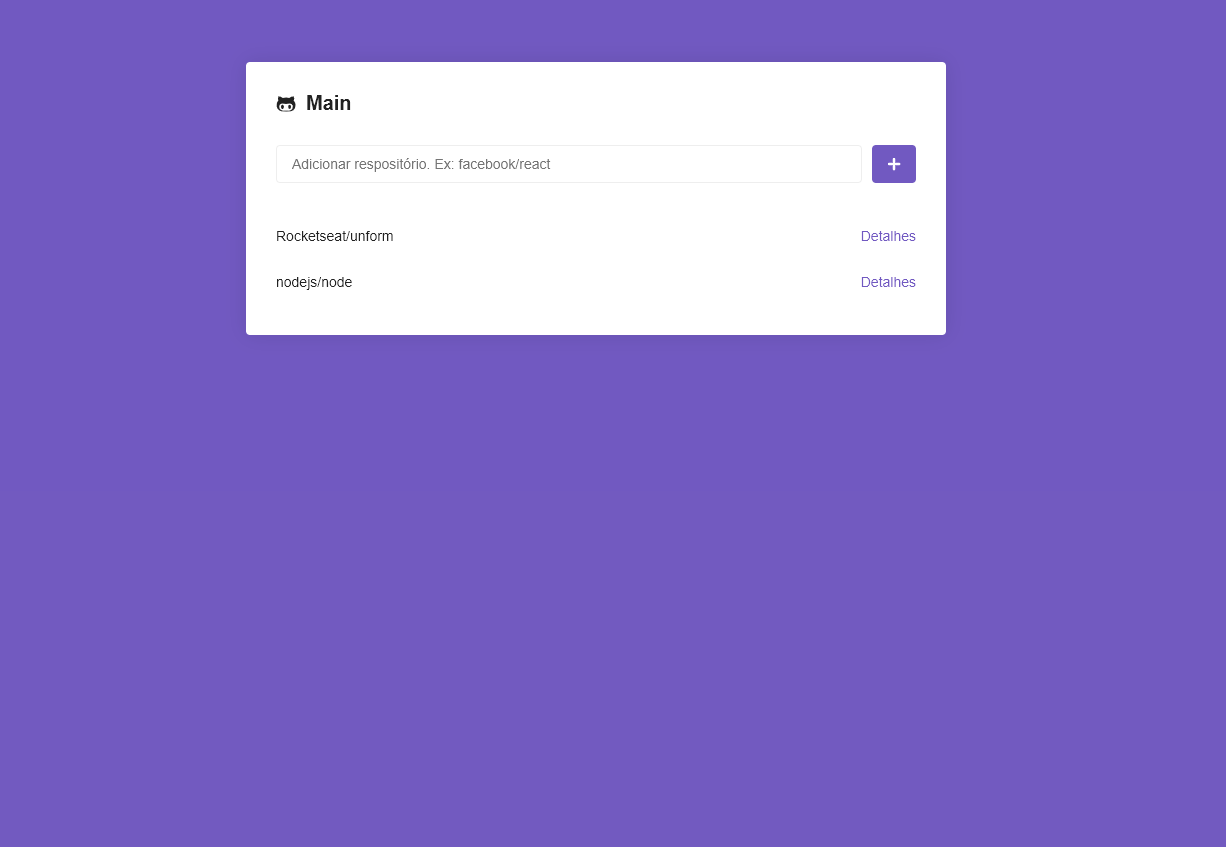
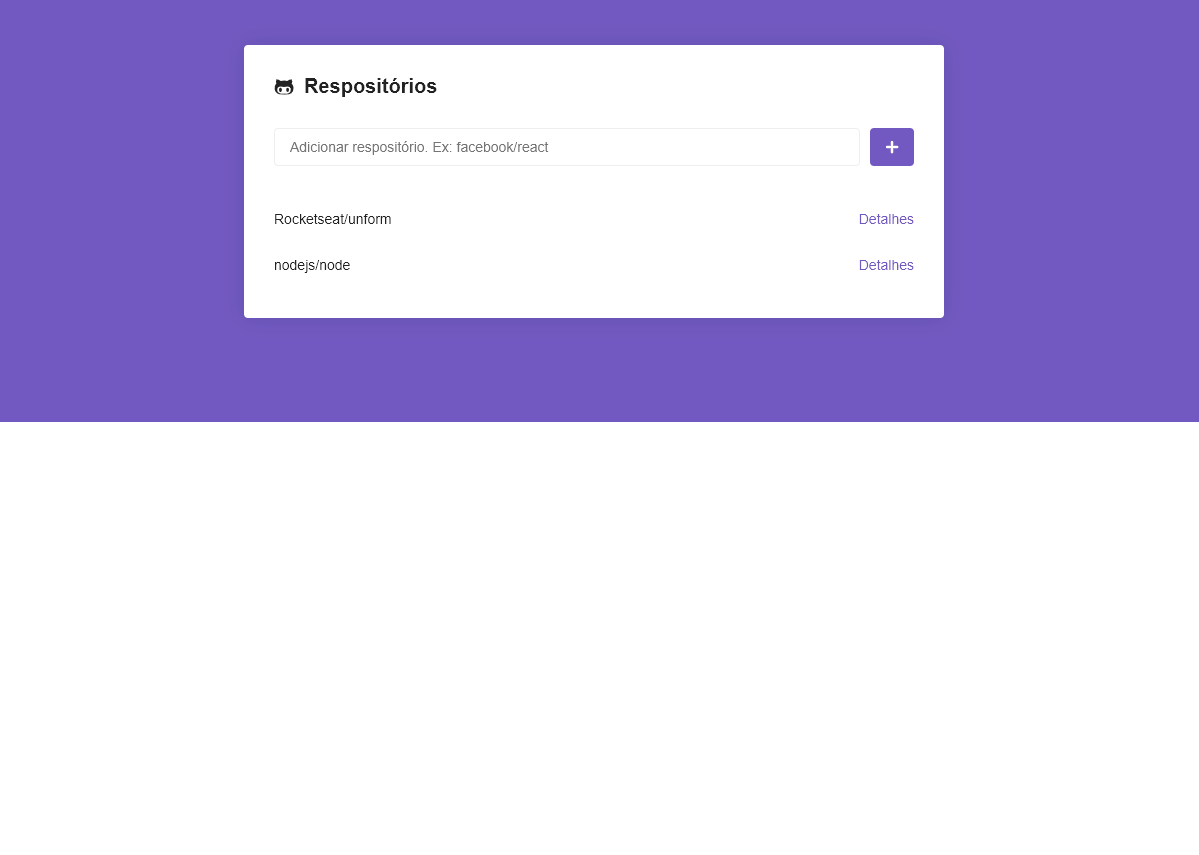
correção

diff --git a/src/pages/Main/index.js b/src/pages/Main/index.js
@@ -67,7 +67,7 @@ class Main extends Component {
             <Container>
                 <h1>
                     <FaGithubAlt />
-                    Main
+                    Respositórios
                 </h1>
 
                 <Form onSubmit={this.handleSubmit}>
